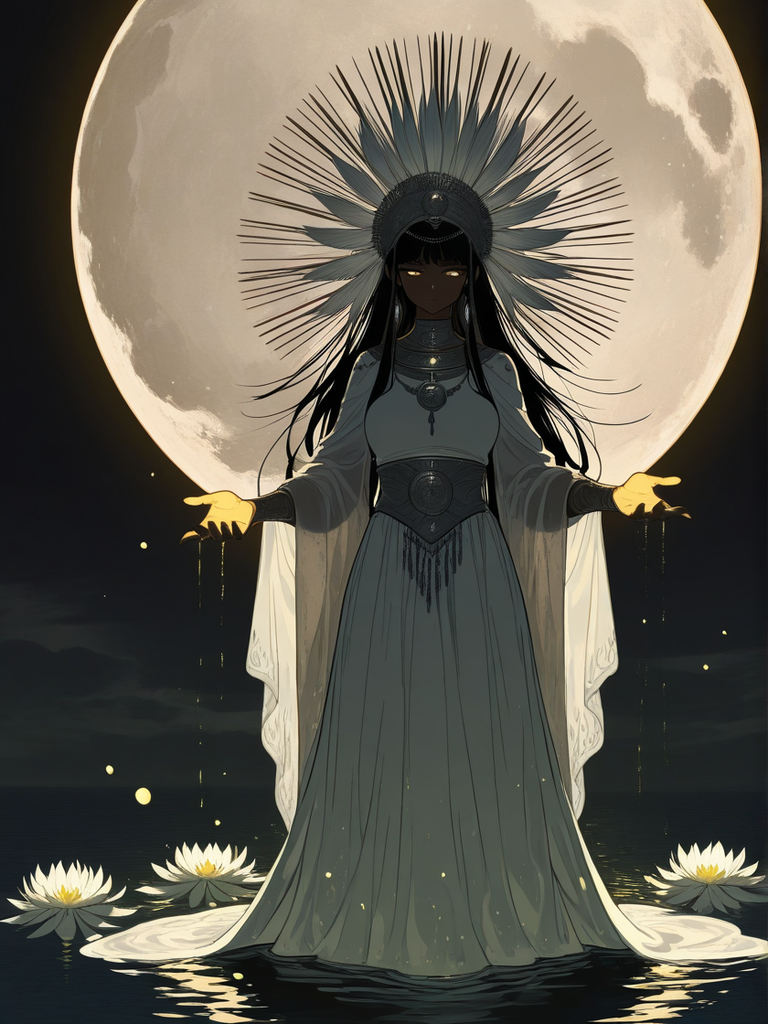
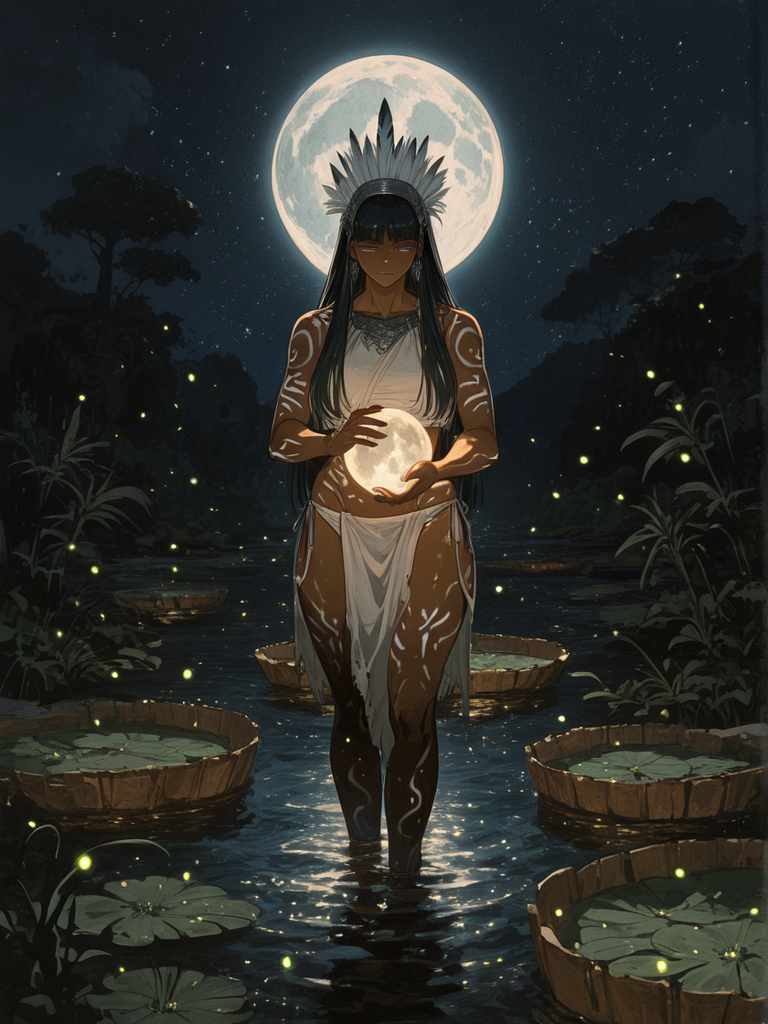
Lendárias foil: Jaci nova centralizada e céu animado no frame full-art
- Jaci refeita do zero (composição Krea + estilo S.A.R.S), centralizada, com vitórias-régias e lua atrás da cabeça
- Frame lendário: 85 estrelas piscando (mais no alto), 9 brilhos de 4 pontas e poeira de luz subindo, em loop com o foil

diff --git a/arte/frame/lendaria_fullart.py b/arte/frame/lendaria_fullart.py
@@ -79,6 +79,48 @@ def texto_foil_em(im, tex_claro, centro, txt, fonte, lado="m", contorno=4):
     texto_foil(im, tex_claro, (px, py), txt, fonte, "la", contorno)
 
 
+def ceu(cid):
+    """Estrelas, brilhos e poeira de luz fixos por carta (semente do id), para animar em loop sobre a arte."""
+    r = np.random.default_rng(int.from_bytes(cid.encode(), "little") % (2 ** 32))
+    est = [(r.uniform(BORDA + 8, W - BORDA - 8), BORDA + 10 + (H * 0.62) * r.uniform(0, 1) ** 1.7, r.uniform(0.8, 2.2),
+            r.uniform(0, 1), int(r.integers(1, 3))) for _ in range(85)]
+    bri = [(r.uniform(BORDA + 30, W - BORDA - 30), BORDA + 30 + (H * 0.55) * r.uniform(0, 1) ** 1.3, r.uniform(7, 15),
+            r.uniform(0, 1)) for _ in range(9)]
+    poe = [(r.uniform(BORDA + 10, W - BORDA - 10), r.uniform(0, 1), r.uniform(1.2, 2.6), r.uniform(0, 1)) for _ in range(28)]
+    return est, bri, poe
+
+
+def desenhar_ceu(im, u, est, bri, poe):
+    """Camada aditiva: 85 estrelas piscando (mais no alto), 9 brilhos de 4 pontas, 28 partículas de luz subindo."""
+    cam = Image.new("RGBA", (W, H), (0, 0, 0, 0))
+    d = ImageDraw.Draw(cam)
+    for x, y, t, fase, vel in est:
+        a = 0.25 + 0.75 * max(0.0, np.sin(2 * np.pi * (u * vel + fase))) ** 2
+        cor = (225, 235, 255, int(255 * a))
+        d.ellipse((x - t, y - t, x + t, y + t), fill=cor)
+    for x, y, tam, fase in bri:
+        a = max(0.0, np.sin(2 * np.pi * (u + fase))) ** 6
+        if a < 0.04:
+            continue
+        L = tam * (0.5 + 0.7 * a)
+        cor = (255, 250, 230, int(255 * a))
+        d.line((x - L, y, x + L, y), fill=cor, width=2)
+        d.line((x, y - L, x, y + L), fill=cor, width=2)
+        d.line((x - L * 0.4, y - L * 0.4, x + L * 0.4, y + L * 0.4), fill=(255, 250, 230, int(160 * a)), width=1)
+        d.line((x - L * 0.4, y + L * 0.4, x + L * 0.4, y - L * 0.4), fill=(255, 250, 230, int(160 * a)), width=1)
+        d.ellipse((x - 3, y - 3, x + 3, y + 3), fill=(255, 255, 255, int(255 * a)))
+    for x, y0, t, fase in poe:
+        y = H - BORDA - ((y0 + u) % 1.0) * (H - 2 * BORDA)               # sobe a tela inteira uma vez por loop
+        a = 0.5 * np.sin(np.pi * ((y0 + u) % 1.0))
+        xx = x + 6 * np.sin(2 * np.pi * (u + fase))
+        d.ellipse((xx - t, y - t, xx + t, y + t), fill=(255, 220, 140, int(255 * a)))
+    brilho = cam.filter(ImageFilter.GaussianBlur(3))
+    base = im.convert("RGBA")
+    base.alpha_composite(brilho)
+    base.alpha_composite(cam)
+    return base.convert("RGB")
+
+
 def quebrar(d, txt, fonte, larg):
     linhas, atual = [], ""
     for p in txt.split():
@@ -122,6 +164,7 @@ def main():
     rot_f = f(SERIF_BOLD, 22)
     txt_f = f(SERIF, 27)
     kws = [KW[k] for k in c.get("keywords", [])]
+    est, bri, poe = ceu(cid)
     tipo_txt = "  ·  ".join([TIPO[c["tipo"]], CULT.get(deck, deck.upper()), "LENDÁRIA"])
     texto = c["texto"]
     for q in range(int(os.environ.get("QUADROS", N))):
@@ -130,6 +173,7 @@ def main():
         claro = foil(u + 0.15, False)
         im = Image.new("RGB", (W, H), (0, 0, 0))
         im.paste(a, (BORDA, BORDA), mask_arte)
+        im = desenhar_ceu(im, u, est, bri, poe)                    # estrelas e brilhos por cima da arte, sob o texto
         im.paste(Image.new("RGB", (W, H), (6, 4, 9)), (0, 0), grad_img)
         # borda foil escura + filetes
         im.paste(escuro, (0, 0), mask_borda)

diff --git a/arte/foil_hibrido.py b/arte/foil_hibrido.py
@@ -9,6 +9,7 @@ AQUI = os.path.dirname(os.path.abspath(__file__))
 ESTILO = ("Dark fantasy painterly illustration, epic and mythological, dramatic chiaroscuro lighting, glowing magical light, "
           "rich deep colors, highly detailed. ")
 P = {
+ "ind_jaci": "Jaci, the Tupi moon goddess of the Brazilian Amazon: a serene Indigenous Brazilian woman with brown skin, long straight black hair with bangs, a white feather headdress and white body paint dots, wearing simple white cotton garments. She stands perfectly centered and facing the viewer, symmetrical, on the dark still water of an Amazon river among giant round Victoria amazonica water lilies. A huge full moon rises directly behind her head like a halo, and silver light glows between her open hands. Starry night sky, fireflies, silver reflections on the water.",
  "cri_elias": "An old Hebrew prophet with a long white beard and a rough sheepskin mantle stands inside a war chariot made entirely of fire, with blazing wheels, pulled by two horses made of living flames. The chariot rises into the night sky inside a spiraling whirlwind, above a dark desert and the river Jordan. He looks upward, one hand raised. No helmet, no horns.",
  "cri_sao_miguel_arcanjo": "Archangel Michael, a stern adult warrior with short hair, golden armor and a red cape, huge white feathered wings and a golden halo. His right hand raises a flaming sword; his left hand holds golden balance scales. His armored foot presses down on the head of a defeated black dragon lying on the rocks. Storm clouds split by rays of heavenly light. No horns.",
  "tao_xiwangmu": "Xiwangmu, the Queen Mother of the West, a regal Chinese goddess around fifty years old, wearing an ornate golden phoenix crown and layered golden and crimson Han dynasty robes. She holds a single pink peach of immortality in her open palm, and a small blue bird perches on her other hand. She stands on a jade terrace of the Kunlun mountains among blossoming peach trees above a sea of clouds. She has no wings.",
